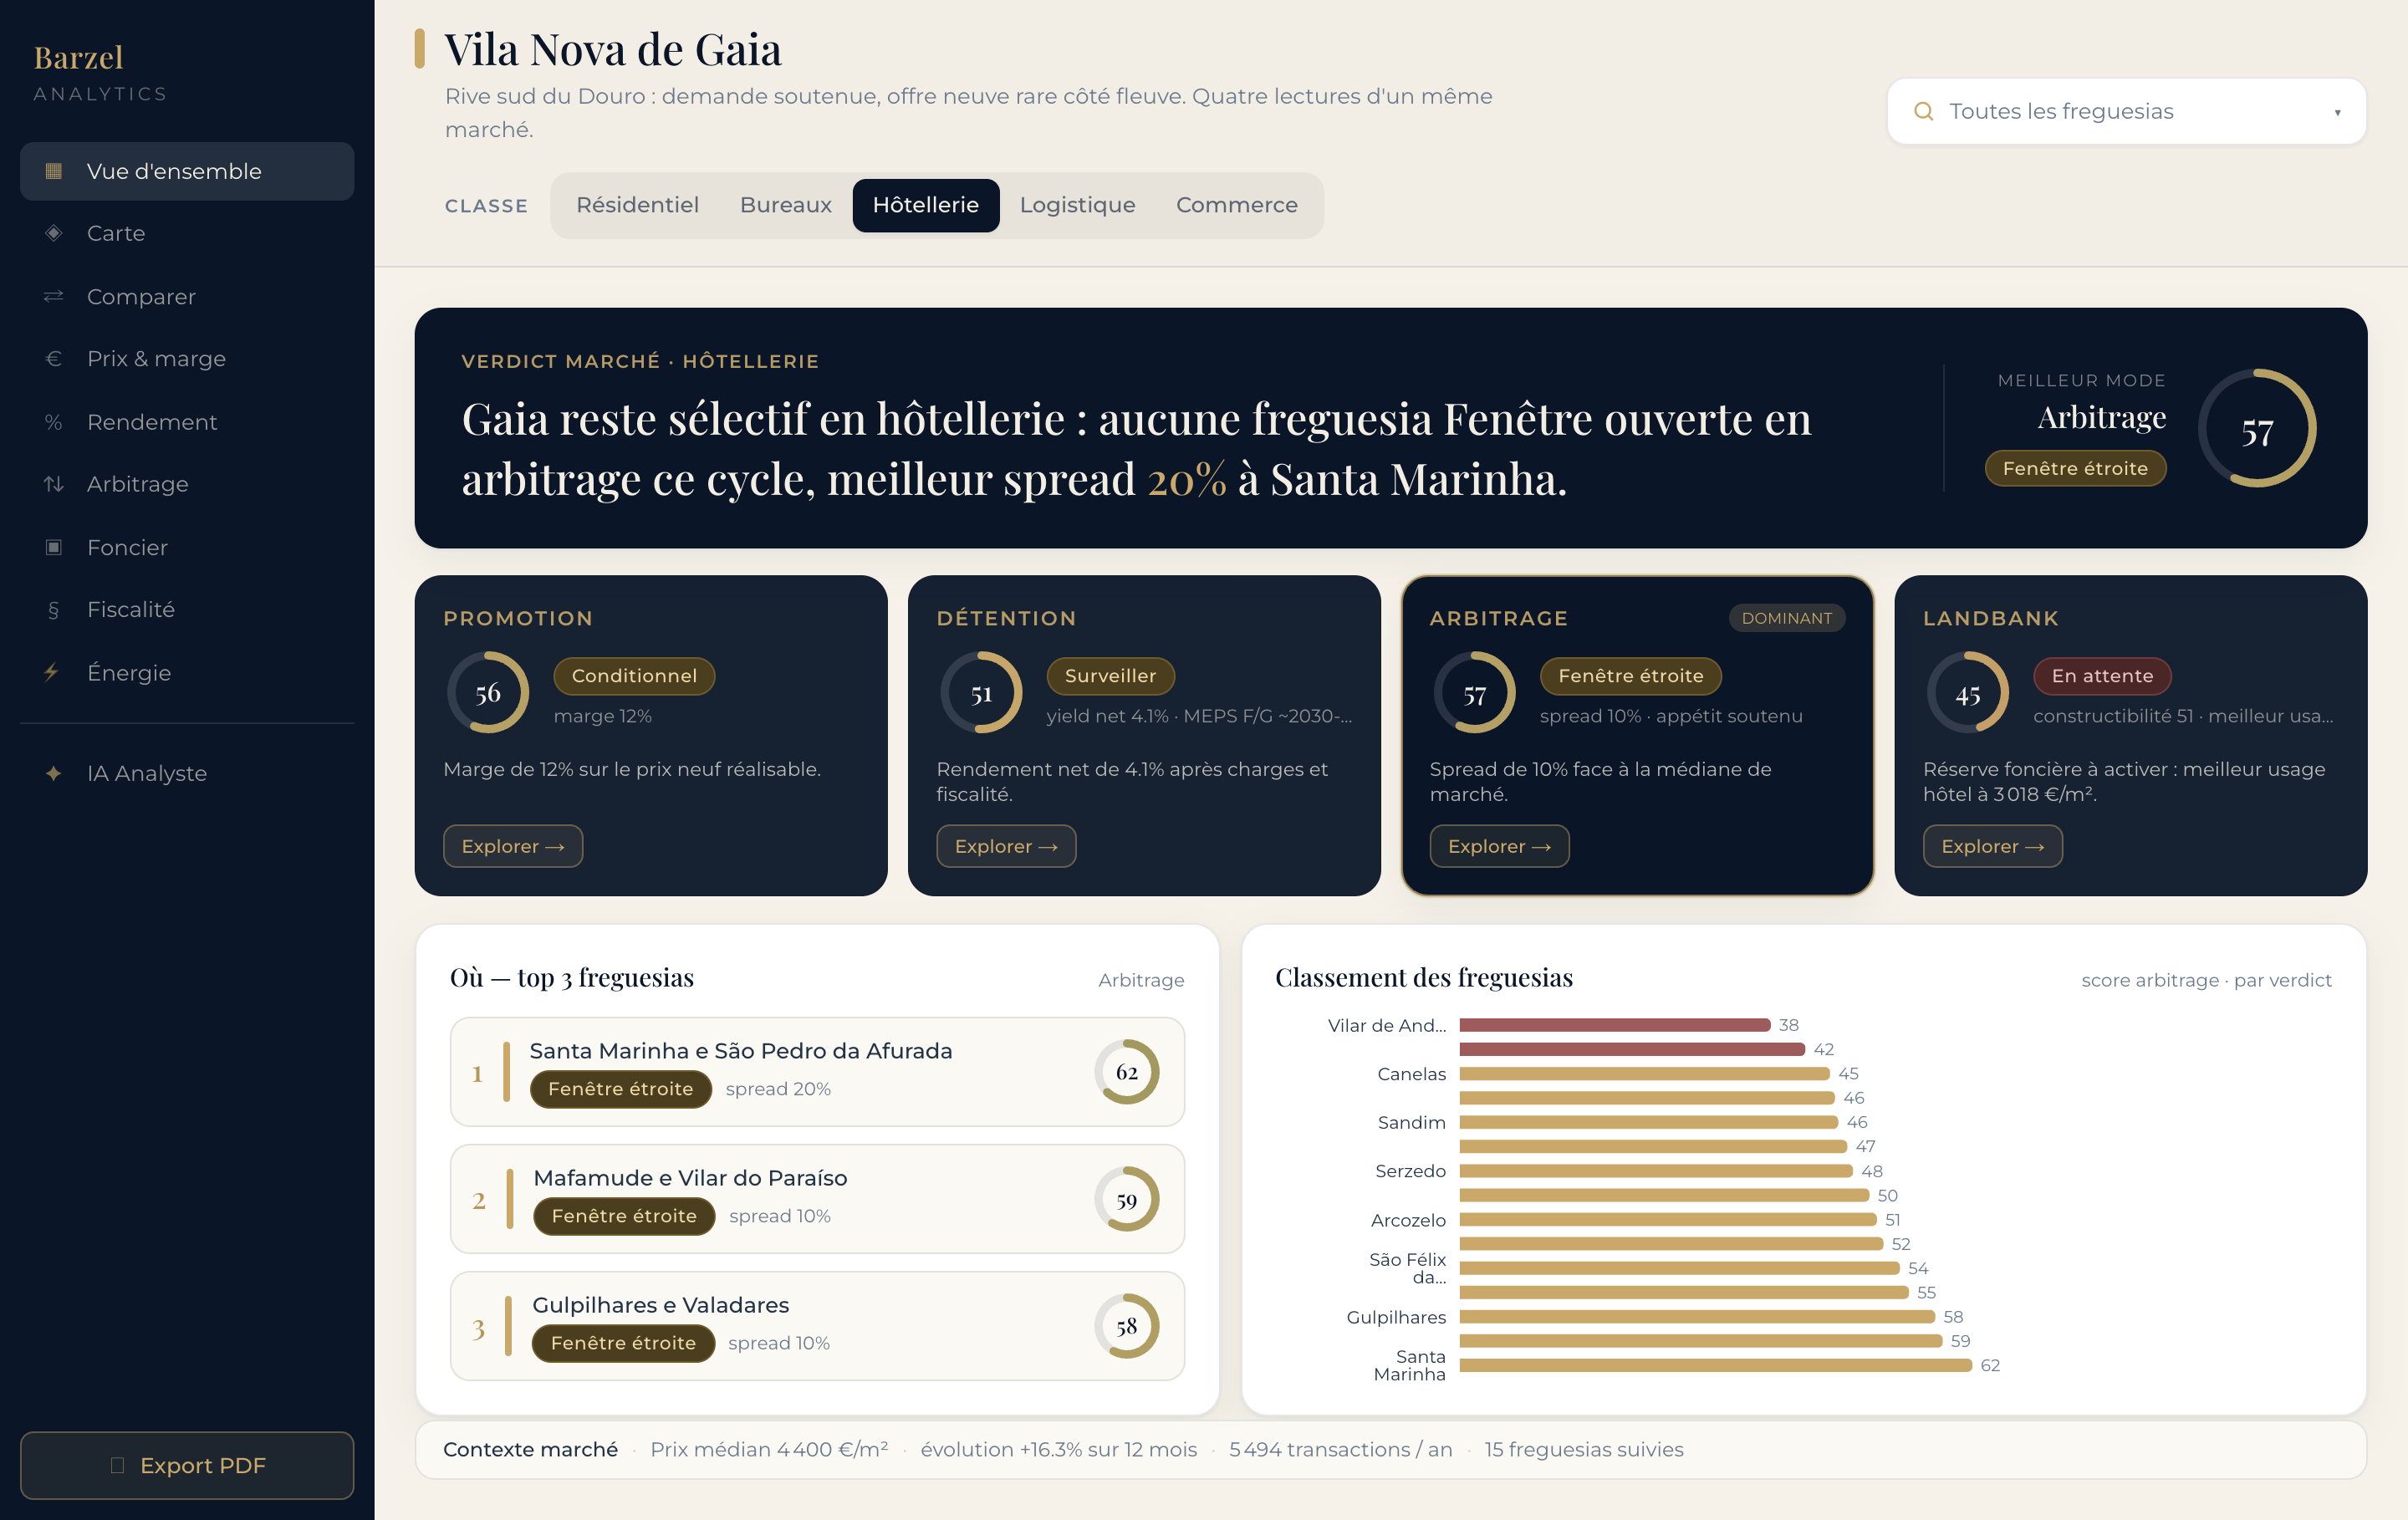
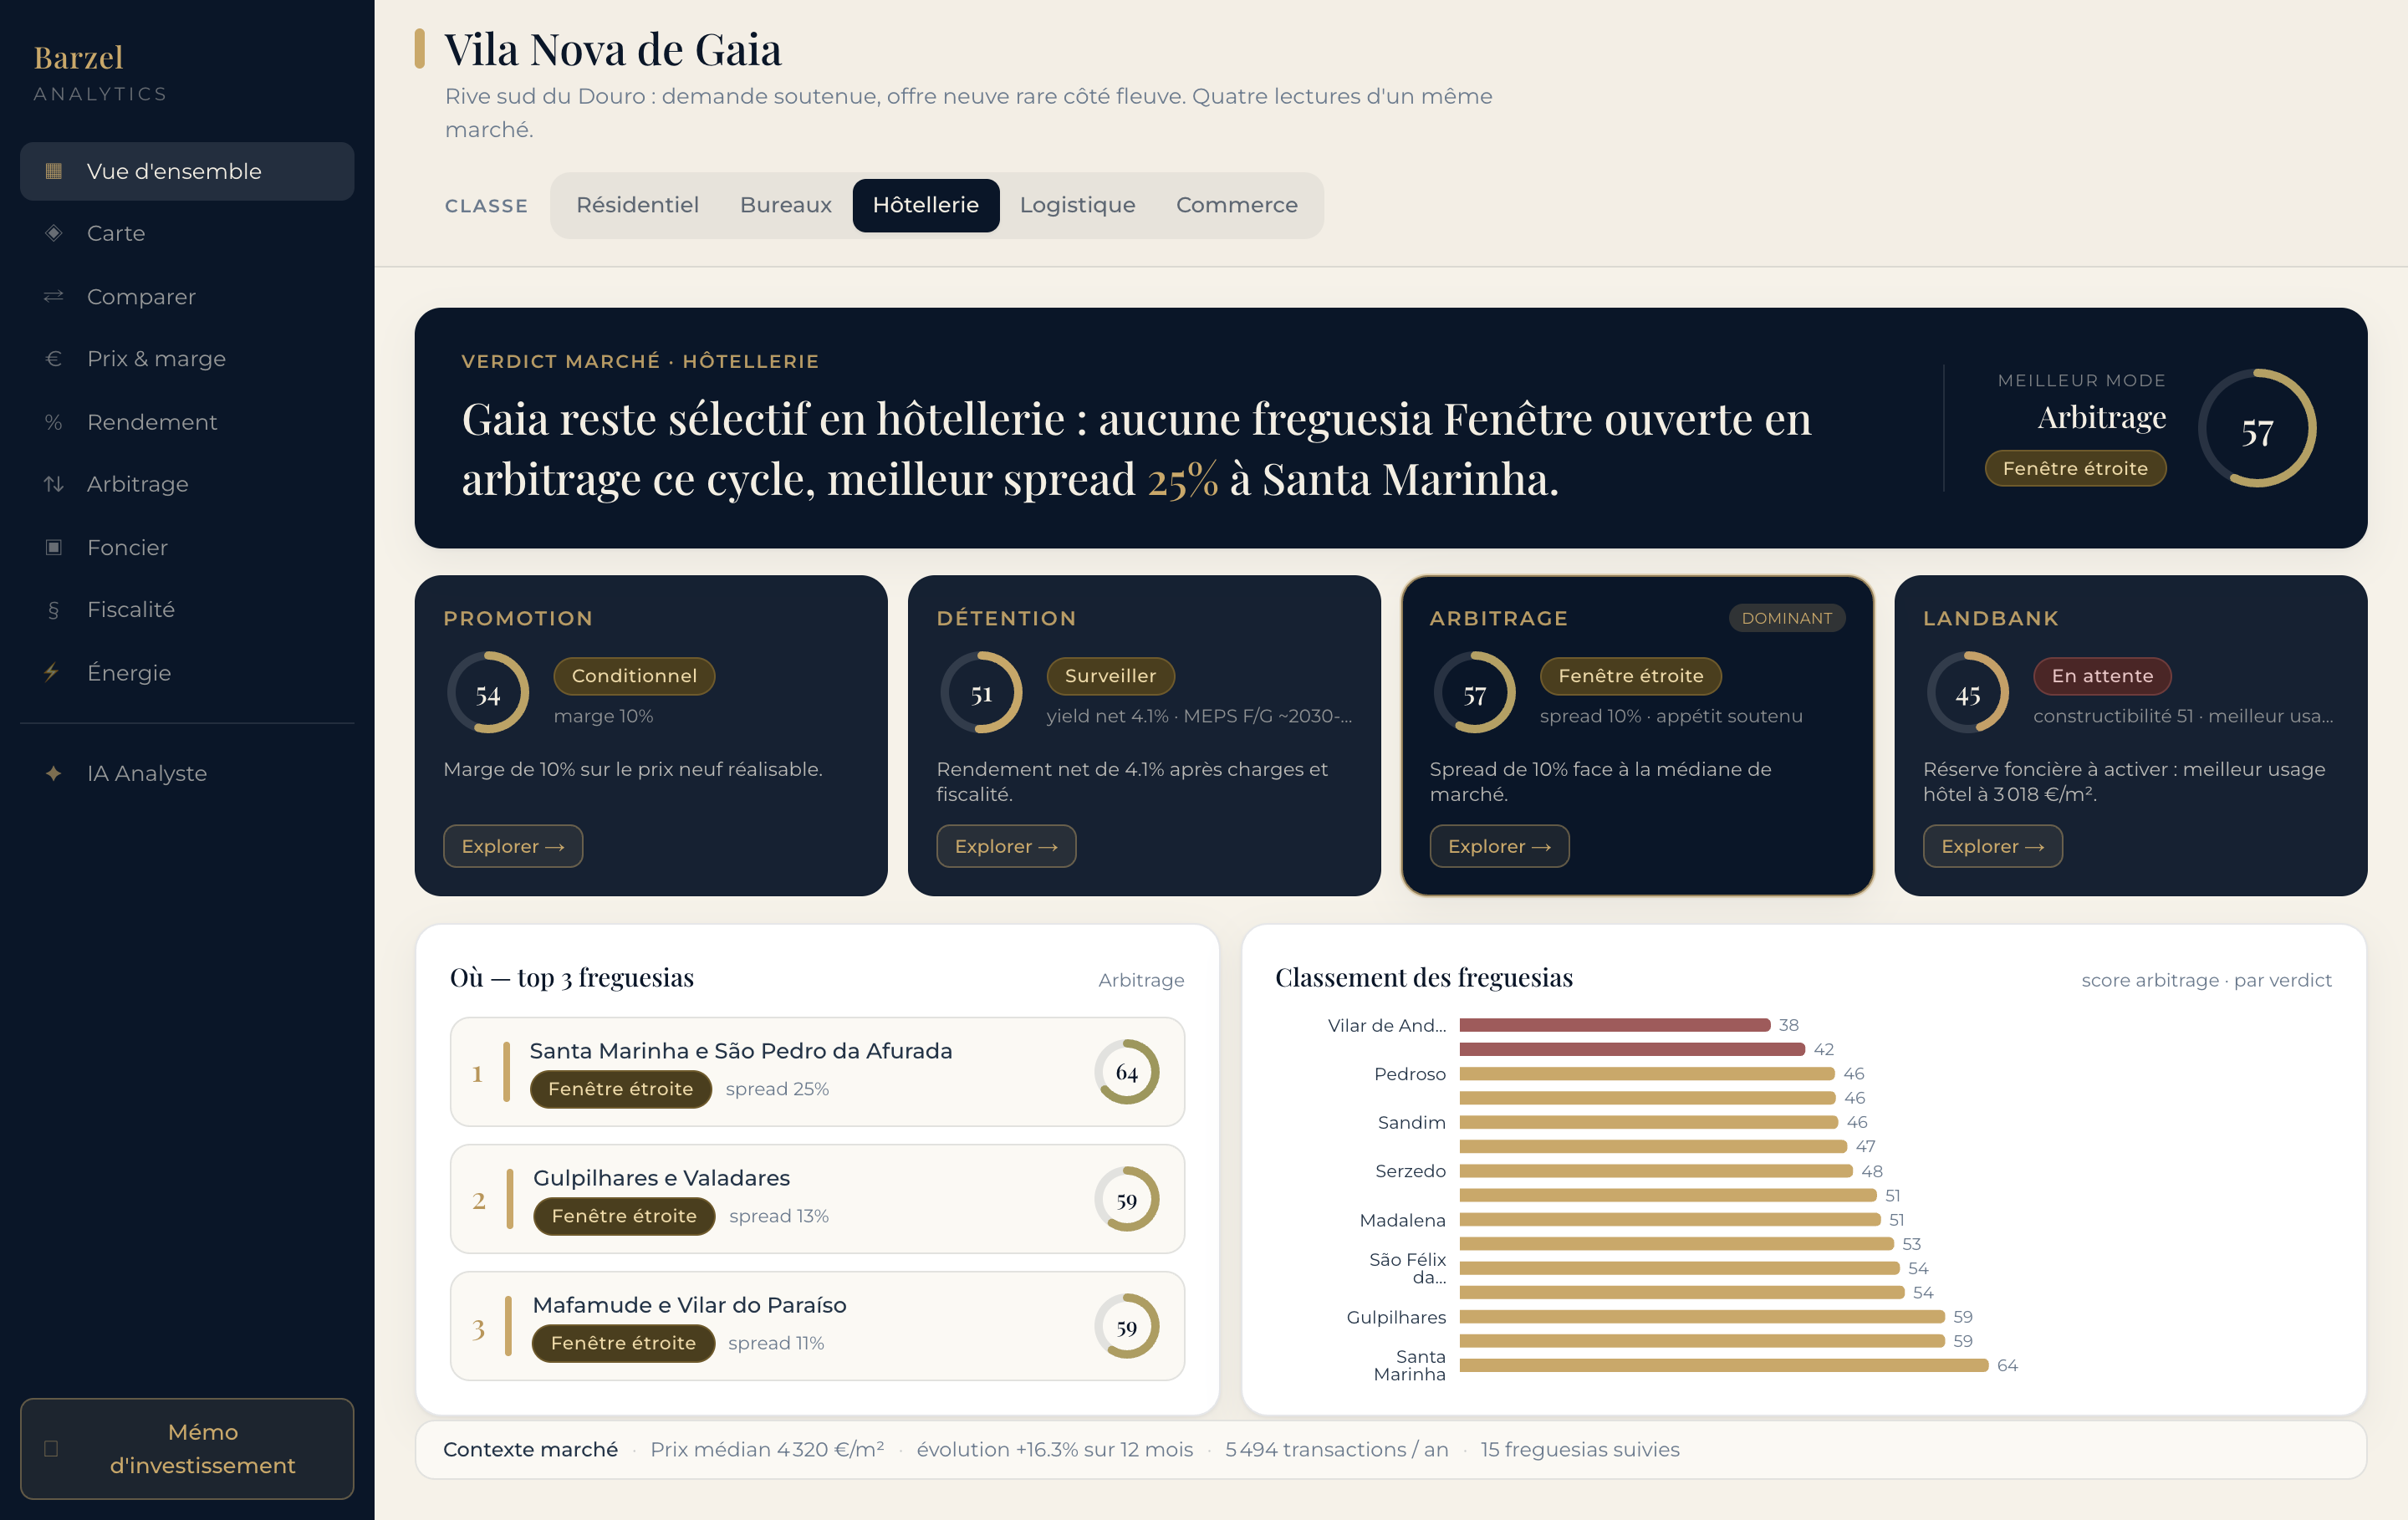
Dé-uniformisation Hôtellerie + audit du sélecteur de freguesias
- Prix hôteliers continus (facteurs fins, plus de paliers de 200 €,
  fourchette 2 920-4 880, hiérarchie conservée) et part foncière
  jitterée ±3 pts autour de 21 % : Santa Marinha 18,0 % Go seule en
  tête, Canidelo 15,4 %, couronne 7,4-14,1, rural négatif ; plus
  aucune paire de freguesias identique.
- Invariant anti-jumeaux toutes classes : offset +0/+1/+2 € limité aux
  zones partageant un facteur de prix — distributions de verdicts
  bureaux/logistique/commerce strictement conservées (les variantes en
  points basculaient des verdicts limites).
- Bascule signalée : landbank Gulpilhares hôtel → logistique ;
  vue-ensemble hôtellerie inchangée (arbitrage dominant, insight
  dégradé conservé).
- Sélecteur de freguesias : prop hideSearch (masqué sur vue-ensemble,
  comparer, fiscalité, IA analyste) ; /energie branché (surlignage +
  scroll + simulateur ciblé sur la freguesia sélectionnée avec sa
  valeur d'actif type et sa part E-F).
- tsc OK, 19 tests backend (+test_no_twin_price_land_pairs), captures
  prixmarge_hotellerie.png (nouvelle) et vue_ensemble régénérées.

diff --git a/frontend/app/energie/page.tsx b/frontend/app/energie/page.tsx
@@ -1,6 +1,6 @@
 "use client";
 
-import { useMemo, useState } from "react";
+import { useEffect, useMemo, useRef, useState } from "react";
 import Link from "next/link";
 import { Header } from "@/components/Header";
 import { Sidebar } from "@/components/Sidebar";
@@ -35,6 +35,19 @@ export default function EnergiePage() {
 
   const detRows = useMemo(() => rdRows(g.detentionCity), [g.detentionCity]);
   const santaRow = useMemo(() => detRows.find((r) => r.zone === SANTA) ?? null, [detRows]);
+
+  // Header selection drives the simulator (first selected freguesia) and
+  // highlights its rows in the stock table; empty selection = Santa Marinha.
+  const simZone = selected[0] ?? SANTA;
+  const simRow = useMemo(
+    () => detRows.find((r) => r.zone === simZone) ?? santaRow,
+    [detRows, simZone, santaRow]
+  );
+  const simParc = useMemo(() => parcFor(simRow?.zone ?? SANTA, cls), [simRow, cls]);
+  const rowRefs = useRef<Record<string, HTMLTableRowElement | null>>({});
+  useEffect(() => {
+    if (selected[0]) rowRefs.current[selected[0]]?.scrollIntoView({ behavior: "smooth", block: "center" });
+  }, [selected]);
 
   // Table: simulated SCE stock joined with the engine's energy pillar risk.
   const rows = useMemo(() => {
@@ -140,16 +153,21 @@ export default function EnergiePage() {
             </section>
 
             <div className="flex flex-col gap-2">
-              {santaRow ? (
-                <RetrofitSimulator row={santaRow} />
+              {simRow ? (
+                <RetrofitSimulator
+                  row={simRow}
+                  placeLabel={simRow.short}
+                  efShare={simParc?.ef ?? null}
+                />
               ) : (
                 <div className="flex min-h-[280px] items-center justify-center rounded-2xl bg-navy text-[13px] text-cream/60 shadow-card">
                   Chargement…
                 </div>
               )}
               <p className="px-1 text-[11px] leading-snug text-muted">
-                Simulateur temps réel : choisissez la classe actuelle et la cible pour voir le
-                CAPEX estimé et la compression du yield net se recalculer.
+                Simulateur temps réel : sélectionnez une freguesia dans le champ de recherche,
+                puis la classe actuelle et la cible pour voir le CAPEX et la compression du
+                yield net se recalculer.
               </p>
             </div>
           </div>
@@ -170,7 +188,11 @@ export default function EnergiePage() {
                 </thead>
                 <tbody>
                   {rows.map((r) => (
-                    <tr key={r.zone} className="border-b border-navy/[0.06]">
+                    <tr
+                      key={r.zone}
+                      ref={(el) => { rowRefs.current[r.zone] = el; }}
+                      className={`border-b border-navy/[0.06] ${selected.includes(r.zone) ? "bg-gold/10" : ""}`}
+                    >
                       <td className="whitespace-nowrap px-3 py-2 font-medium text-ink">{r.name}</td>
                       <td className="px-3 py-2 text-right tabular-nums text-ink/80">{r.parc.ab}%</td>
                       <td className="px-3 py-2 text-right tabular-nums text-ink/80">{r.parc.cd}%</td>

diff --git a/frontend/components/RetrofitSimulator.tsx b/frontend/components/RetrofitSimulator.tsx
@@ -9,15 +9,17 @@ const TARGET: SceGrade[] = ["D", "C", "B"];
 
 // Live retrofit simulator — neutral labelling. Picks a current and a target SCE
 // class (Portuguese scale, A+ → F), shows the estimated CAPEX per m² and its
-// impact on the net yield of a typical Santa Marinha asset (CAPEX added to the
-// value base, rent unchanged).
-export function RetrofitSimulator({ row }: { row: RdRow }) {
+// impact on the net yield of a typical asset of the given freguesia (CAPEX
+// added to the value base, rent unchanged). The header selector drives which
+// freguesia feeds it; defaults to Santa Marinha.
+export function RetrofitSimulator({ row, placeLabel, efShare }: { row: RdRow; placeLabel: string; efShare: number | null }) {
   const [from, setFrom] = useState<SceGrade>("F");
   const [to, setTo] = useState<SceGrade>("C");
 
   const rank = (g: SceGrade) => SCE_SCALE.indexOf(g);
   const capex = capexPerM2(from, to);
   const impact = capex != null ? retrofitImpact(row, capex) : null;
+  const value = row.loyer && row.yieldBrut > 0 ? row.loyer / (row.yieldBrut / 100) : null;
 
   const pick = (g: SceGrade, kind: "from" | "to") => {
     if (kind === "from") {
@@ -36,6 +38,11 @@ export function RetrofitSimulator({ row }: { row: RdRow }) {
             Simulateur de mise à niveau · Énergie
           </div>
           <div className="font-display text-lg">Rénovation énergétique (SCE)</div>
+          <div className="mt-0.5 text-[11px] text-cream/55">
+            actif type à {placeLabel}
+            {value != null ? ` — ${Math.round(value).toLocaleString("fr-FR")} €/m²` : ""}
+            {efShare != null ? ` · parc E-F ${efShare}%` : ""}
+          </div>
         </div>
         {capex != null && (
           <span className="rounded-full border border-gold/40 bg-gold/10 px-2.5 py-1 text-[11px] font-medium text-gold">
@@ -86,7 +93,7 @@ export function RetrofitSimulator({ row }: { row: RdRow }) {
         <p className="mt-4 text-[11px] leading-relaxed text-cream/45">
           La mise à niveau {from}→{to} coûte ~{capex} €/m² et comprime le yield net de{" "}
           {impact.compression.toFixed(2).replace(".", ",")} point la première décennie — loyer
-          inchangé, actif type Santa Marinha ({Math.round(impact.value).toLocaleString("fr-FR")} €/m²).
+          inchangé, actif type à {placeLabel} ({Math.round(impact.value).toLocaleString("fr-FR")} €/m²).
         </p>
       )}
     </div>

diff --git a/frontend/components/Header.tsx b/frontend/components/Header.tsx
@@ -13,6 +13,7 @@ export function Header({
   assetClass,
   onClass,
   hideMode = false,
+  hideSearch = false,
 }: {
   marketLine: string;
   freguesias: { id: string; label: string }[];
@@ -23,6 +24,7 @@ export function Header({
   assetClass: string;
   onClass: (c: string) => void;
   hideMode?: boolean;
+  hideSearch?: boolean;
 }) {
   return (
     <header className="relative z-[1000] border-b border-navy/10 bg-cream/80 px-6 py-4 backdrop-blur">
@@ -34,9 +36,11 @@ export function Header({
           </div>
           <p className="mt-1.5 max-w-2xl pl-[18px] text-[13px] text-muted">{marketLine}</p>
         </div>
-        <div className="w-72">
-          <MultiSelect options={freguesias} selected={selected} onChange={onSelected} />
-        </div>
+        {!hideSearch && (
+          <div className="w-72">
+            <MultiSelect options={freguesias} selected={selected} onChange={onSelected} />
+          </div>
+        )}
       </div>
 
       <div className="mt-4 flex flex-wrap items-center gap-x-8 gap-y-3 pl-[18px]">

diff --git a/frontend/app/comparer/page.tsx b/frontend/app/comparer/page.tsx
@@ -119,6 +119,7 @@ export default function ComparerPage() {
           assetClass={g.assetClass}
           onClass={g.setAssetClass}
           hideMode
+          hideSearch
         />
 
         {g.error && (

diff --git a/frontend/app/fiscalite/page.tsx b/frontend/app/fiscalite/page.tsx
@@ -58,6 +58,7 @@ export default function FiscalitePage() {
           assetClass={g.assetClass}
           onClass={g.setAssetClass}
           hideMode
+          hideSearch
         />
 
         <main className="flex min-h-0 flex-1 flex-col gap-5 overflow-y-auto p-6">

diff --git a/frontend/app/ia-analyste/page.tsx b/frontend/app/ia-analyste/page.tsx
@@ -64,6 +64,7 @@ export default function IaAnalystePage() {
           assetClass={g.assetClass}
           onClass={g.setAssetClass}
           hideMode
+          hideSearch
         />
 
         <main className="flex min-h-0 flex-1 flex-col gap-4 p-6">

diff --git a/frontend/app/vue-ensemble/page.tsx b/frontend/app/vue-ensemble/page.tsx
@@ -91,6 +91,7 @@ export default function VueEnsemble() {
           assetClass={g.assetClass}
           onClass={g.setAssetClass}
           hideMode
+          hideSearch
         />
 
         {g.error && (

diff --git a/backend/services/mode_scoring.py b/backend/services/mode_scoring.py
@@ -608,6 +608,32 @@ def _p(st: State, *keys, default=None):
     return cur
 
 
+def _commercial_land(st: State, cls: str, zone_id: str, sale: float) -> float:
+    """Commercial land cost €/m² for one zone+class. Hotel carries a full ±3 pts
+    deterministic jitter on the land share (the class was never finely
+    calibrated). The other commercial classes keep their flat share; only
+    PRICE-TWIN zones (same class factor, hence same price) get a +0/+1/+2 €
+    rank offset — enough to guarantee distinct rounded land values, far too
+    small (≤0.06 pt of margin) to move any verdict, and zones without a twin
+    stay bit-identical."""
+    lp = _p(st, "commercial_gaia", "classes", cls, "land_pct", default=12.0)
+    if cls == "hotel":
+        return sale * (lp + _split_jitter_pct(zone_id) * 2.0) / 100.0
+    land = sale * lp / 100.0
+    zf = _p(st, "commercial_gaia", "zone_factors", default={}) or {}
+
+    def factor(z: str) -> float:
+        return (zf.get(z) or zf.get("default") or {}).get(cls, 1.0)
+
+    me = st.zones.get(zone_id, {})
+    twins = sorted(z for z, d in st.zones.items()
+                   if d.get("city") == me.get("city") and d.get("level") == me.get("level")
+                   and factor(z) == factor(zone_id))
+    if len(twins) > 1 and zone_id in twins:
+        land += twins.index(zone_id)
+    return land
+
+
 # --------------------------------------------------------------------------- #
 # PROMOTION pillars                                                            #
 # --------------------------------------------------------------------------- #
@@ -640,11 +666,10 @@ def _promo_marge(st: State, z: dict, cls: str, asset: dict | None) -> Pillar:
                                              "land_cost_default_frac_of_sale", default=0.18)
         land_conf = ((asset or {}).get("confidence") or zp.get("confidence", RAPPORT)) \
             if land_from_params else HYPOTHESE
-    elif comm:        # commercial: land = a % of the class market price
-        lp = _p(st, "commercial_gaia", "classes", cls, "land_pct", default=12.0)
-        land = sale * lp / 100.0
+    elif comm:        # commercial: land = a % of the class market price (per-zone spread)
+        land = _commercial_land(st, cls, z["id"], sale)
         land_conf = HYPOTHESE
-        land_note = f"foncier {land:.0f} €/m² ({lp:.0f}% du prix {cls}) · "
+        land_note = f"foncier {land:.0f} €/m² ({land / sale * 100:.1f}% du prix {cls}) · "
     else:             # residential zone: real €/m² land cost per zone
         land = _land_cost_eur_m2(st, z)
         land_conf = HYPOTHESE
@@ -1044,8 +1069,7 @@ def _land_usage_econ(st: State, z: dict, cls: str) -> tuple[float, float, float]
         land = _land_cost_eur_m2(st, z)
     else:
         sale = price
-        lp = _p(st, "commercial_gaia", "classes", cls, "land_pct", default=12.0)
-        land = sale * lp / 100.0
+        land = _commercial_land(st, cls, z["id"], sale)
     if land <= 0:
         return None
     return sale, build, land

diff --git a/backend/tests/test_mode_scoring.py b/backend/tests/test_mode_scoring.py
@@ -236,6 +236,21 @@ def test_landbank_best_use_land_cap():
             assert b["foncier_marche_eur_m2"] <= 1200, (r["zone"], b["foncier_marche_eur_m2"])
 
 
+def test_no_twin_price_land_pairs():
+    # No two freguesias may share strictly identical (realizable price, land)
+    # pairs, in any class — twin rows read as a formula, not a market.
+    for cls in ("residential", "office", "hotel", "logistics", "retail"):
+        seen = {}
+        for r in ms.score_city("gaia", "promotion", cls):
+            if r["level"] != "freguesia":
+                continue
+            marge = next(p for p in r["pillars"] if p["pillar"] == "marge")
+            b = marge["breakdown"]
+            key = (b["realizable_sale"], b["land"])
+            assert key not in seen, (cls, seen[key], r["zone"], key)
+            seen[key] = r["zone"]
+
+
 def test_unknown_zone_and_mode_raise():
     import pytest
     with pytest.raises(KeyError):

diff --git a/CLAUDE.md b/CLAUDE.md
@@ -905,6 +905,44 @@ détention) — 5 pages chacun, chiffres des textes IA vérifiés contre les
 tableaux ; révision « raccourcis la recommandation » : −21 % et resserrée.
 Modal contrôlée à l'écran (formulaire + relecture).
 
+### Dé-uniformisation Hôtellerie + audit du sélecteur de freguesias — **✅ Livré** (2026-07-03)
+1. **Prix hôteliers continus** (facteurs de zone en pas fins, plus de paliers
+   0,05×4 000 = 200 €) : fourchette 2 920-4 880 €/m², front de fleuve en tête,
+   hiérarchie conservée, **aucune paire de valeurs identiques**.
+2. **Part foncière hôtelière jitterée ±3 pts** autour de 21 % (même jitter
+   déterministe que charges/fiscalité détention, clé zone). Marges cibles :
+   **Santa Marinha 18,0 % Go, seule tête** ; Canidelo 15,4 % Conditionnel ;
+   couronne 7,4-14,1 (⚠️ Mafamude 14,1 dépasse la bande « 6-12 » énoncée —
+   verdict Conditionnel conforme, signalé) ; rural −2,5 à −20,1 ; São Félix
+   2,5 % Passer. Cap verdict marge < 8 % naturel (Oliveira 7,7 / Arcozelo 7,4).
+3. **Anti-jumeaux toutes classes** (`test_no_twin_price_land_pairs`) : pour les
+   autres classes commerciales, seul un offset **+0/+1/+2 €** est appliqué aux
+   zones PARTAGEANT le même facteur de prix (rang dans le groupe de jumelles) —
+   garanti sans collision d'arrondi, ≤ 0,06 pt de marge, zones sans jumelle
+   bit-identiques. ⚠️ Piège documenté : les variantes « jitter par classe » et
+   « offset en points » basculaient des verdicts limites (bureaux 2→1 Go,
+   logistique 15 Cond → 1 Go, commerce 2/4/9 → 2/5/8) — les distributions de
+   référence sont exactement conservées (bureaux 2/5/8, logistique 15
+   Conditionnel, commerce 2/4/9).
+4. **Effets croisés contrôlés** : détention hôtel 2/6/7 et arbitrage 13
+   étroites/2 fermées inchangés (spreads recalculés, max +24,5 % à Santa
+   Marinha) ; vue-ensemble hôtellerie : dominant arbitrage 56,9 et **insight
+   dégradé conservé** ; insight Prix & marge sans marges jumelles (« menées par
+   Santa Marinha (18%), Canidelo (15%) et Mafamude (14%) »). **Bascule
+   signalée** : landbank **Gulpilhares hôtel → logistique** (uplift hôtel
+   renchéri par son foncier jitteré ; logistique −11,4 devant) — la carte des
+   usages reste défendable ; foncier max hors prime 864 ≤ 1 200 ✓.
+5. **Sélecteur de freguesias — audit 10 pages** (prop `hideSearch` sur Header) :
+   réagit sur /gaia (carte), /prix-marge, /rendement, /arbitrage, /foncier
+   (filtres) et **désormais /energie** (surlignage + scroll de la ligne du
+   parc, simulateur alimenté par la freguesia sélectionnée : « actif type à
+   Madalena — 2 860 €/m² · parc E-F 18% » ; retour Toutes les freguesias =
+   Santa Marinha) ; **masqué** sur /vue-ensemble (niveau ville), /comparer
+   (sélecteurs dédiés), /fiscalite (barèmes ville), /ia-analyste (question
+   libre). `RetrofitSimulator` : props `placeLabel`/`efShare`.
+6. Vérifs : `tsc` OK, **19 tests** backend, 5 classes contrôlées, capture
+   **`shots/prixmarge_hotellerie.png`** (nouvelle) + vue_ensemble régénérées.
+
 ### État final du gabarit de page de mode
 Les 4 pages partagent : breakdown structuré sur le pilier natif (`marge`,
 `rendement_net`, `spread`, `constructibilite`), InsightBanner + insight gradué à